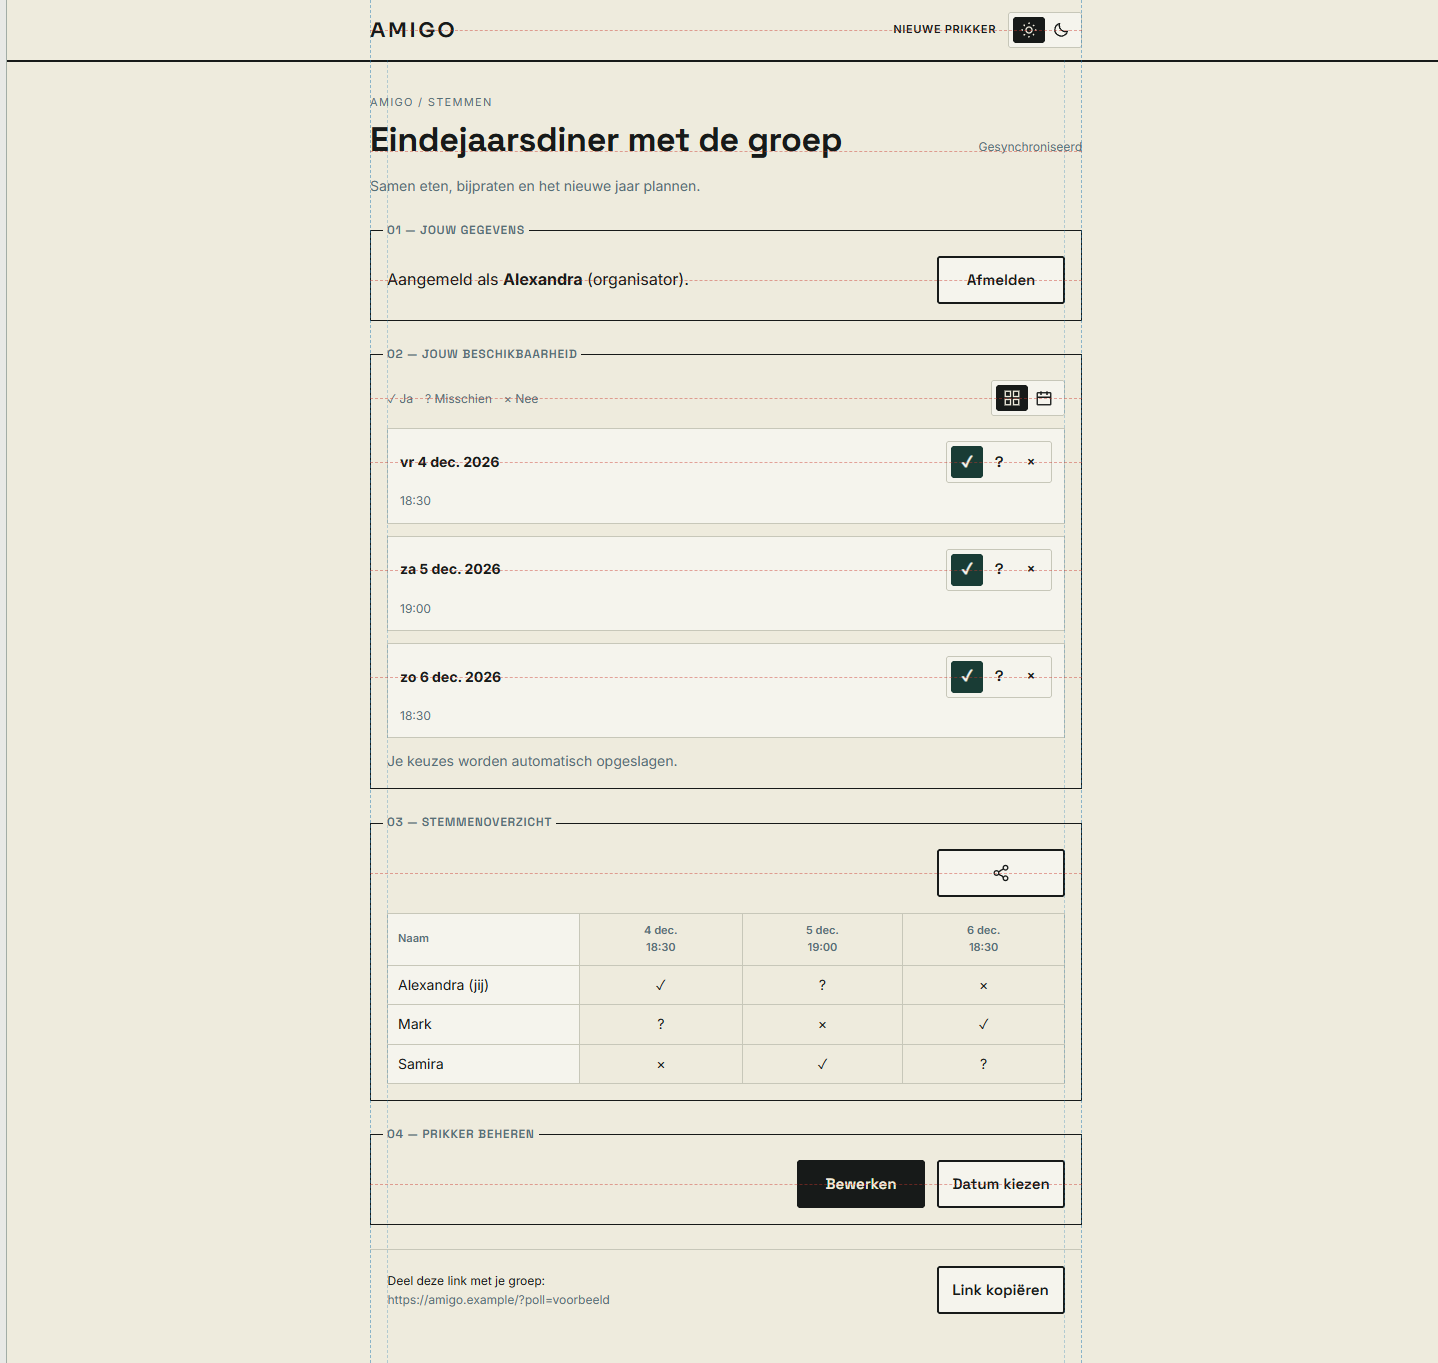
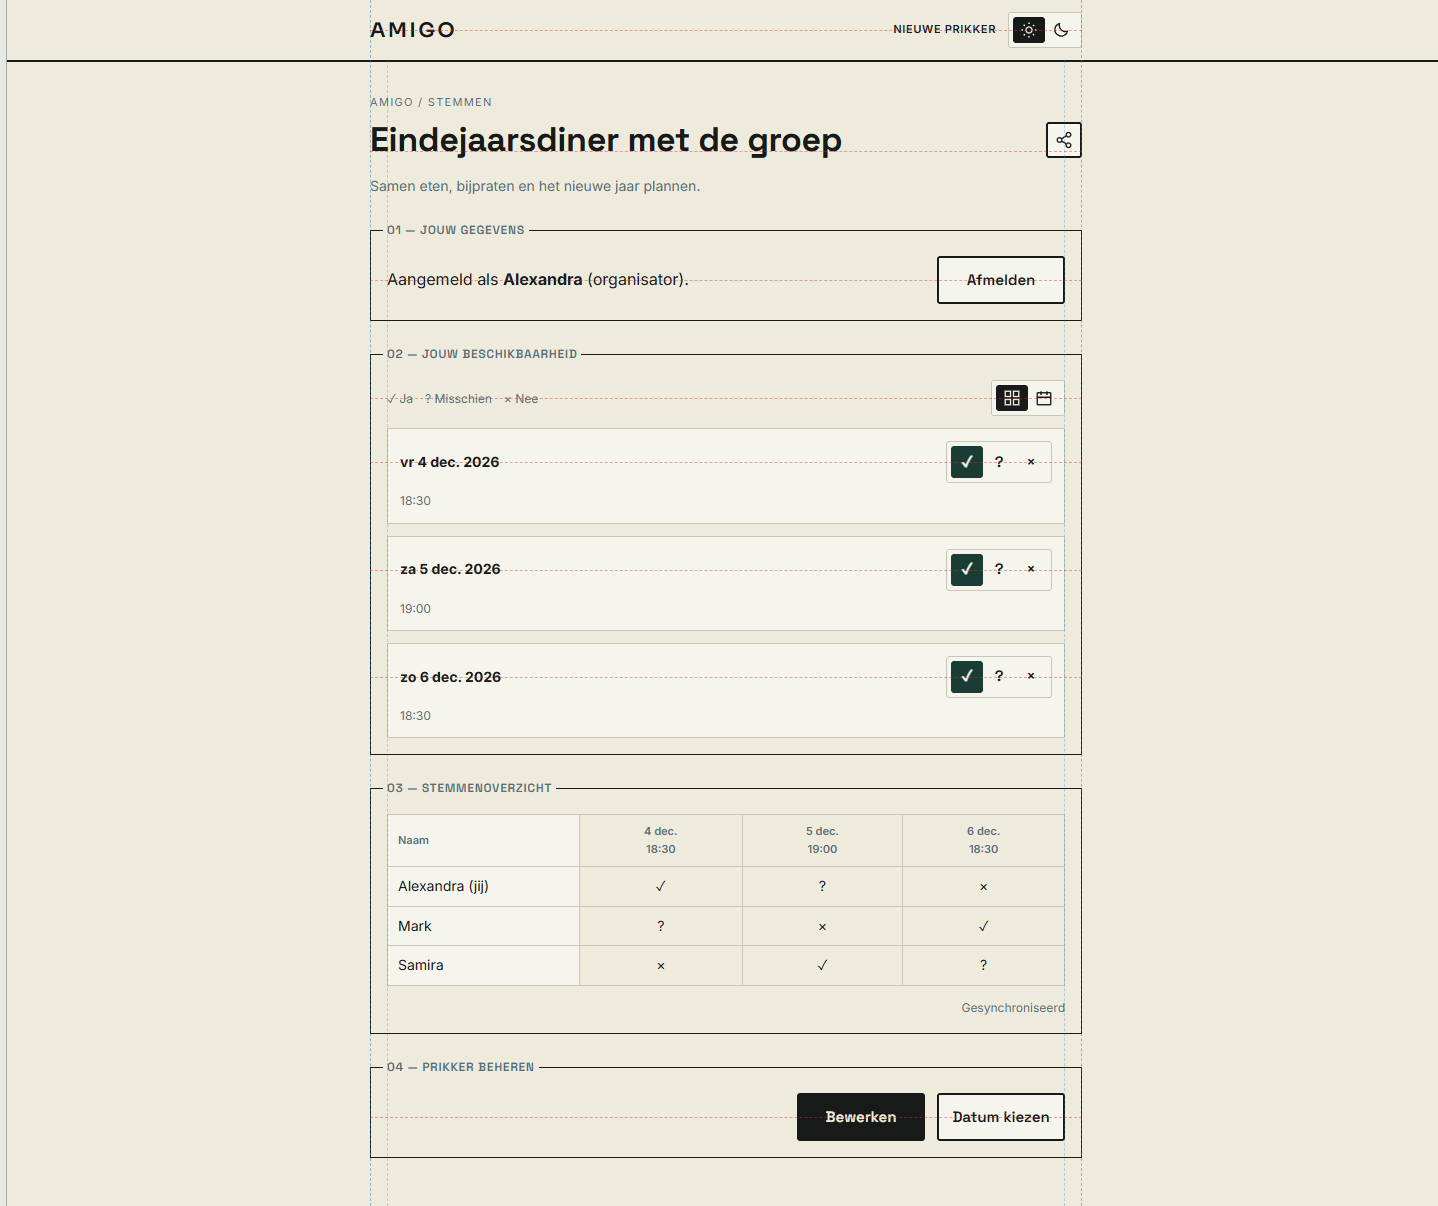
Layout changes

diff --git a/docs/planner-wireframe.html b/docs/planner-wireframe.html
@@ -343,7 +343,7 @@ OTHER DEALINGS IN THE FONT SOFTWARE.
     <div class="stage"><iframe id="preview" title="Wireframe van de datumprikker"></iframe></div>
     <div class="notes">
       <section class="note"><h2>A · Buitenlijn</h2><p>Logo, titel en segmentkaders beginnen op dezelfde lijn. Header en pagina delen een breedte van maximaal 760 px.</p></section>
-      <section class="note"><h2>B · Horizontale lijnen</h2><p>Segmenttitels volgen de linkerrand van de inhoud. Op brede schermen staan naam, wachtwoord en aanmelden op één rij. Op mobiel staan de velden onder elkaar over de volle breedte, met de knop eronder rechts. Titel en status delen hun eerste tekstbasislijn.</p></section>
+      <section class="note"><h2>B · Horizontale lijnen</h2><p>Segmenttitels volgen de linkerrand van de inhoud. Op brede schermen staan naam, wachtwoord en aanmelden op één rij. Op mobiel staan de velden onder elkaar over de volle breedte, met de knop eronder rechts. De deelknop staat rechts naast de polltitel; de synchronisatiestatus staat onder de stemtabel.</p></section>
       <section class="note"><h2>Ritme</h2><p>24 px tussen segmenten, 16 px tussen velden, 8 px tussen label en veld en 12 px tussen kaarten en knoppen. De pagina groeit mee; alleen de tabel scrolt horizontaal.</p></section>
     </div>
   </main>
@@ -408,12 +408,11 @@ OTHER DEALINGS IN THE FONT SOFTWARE.
     }
     function table() {
       const names = [person() + ' (jij)', state.stress ? 'Jean-Christophe De Smet-Van den Broeck' : 'Mark', 'Samira'];
-      return actionRow(shareButton()) + `<div class="table-scroll" role="region" aria-label="Stemmenoverzicht" tabindex="0"><table>
+      return `<div class="table-scroll" role="region" aria-label="Stemmenoverzicht" tabindex="0"><table>
         <thead><tr><th scope="col">Naam</th>${dates().map(date => `<th scope="col" ${state.scenario === 'closed' && date.day === 6 ? 'class="chosen"' : ''}>${date.day} dec.<br>${date.time}${state.scenario === 'closed' && date.day === 6 ? '<br>Einddatum' : ''}</th>`).join('')}</tr></thead>
         <tbody>${names.map((name, index) => `<tr><th scope="row">${escape(name)}</th>${dates().map((date, i) => `<td ${state.scenario === 'closed' && date.day === 6 ? 'class="chosen"' : ''}>${['✓', '?', '×'][(i + index) % 3]}</td>`).join('')}</tr>`).join('')}</tbody>
-      </table></div>`;
+      </table></div><p class="status" role="status">Gesynchroniseerd</p>`;
     }
-    const shareFooter = () => `<div class="share-footer"><p>Deel deze link met je groep:<br><span class="link-text">https://amigo.example/?poll=voorbeeld</span></p>${button('Link kopiëren', 'copy', true)}</div>`;
     function create() {
       return `<div class="eyebrow">AMIGO / planner</div><h1>Nieuwe datumprikker</h1><form class="segments" data-form="create">
         ${segment('01 — Prikker instellen', `<div class="fields">${label('Titel', title())}${description()}</div>`)}
@@ -450,15 +449,15 @@ OTHER DEALINGS IN THE FONT SOFTWARE.
     function poll() {
       const authorized = ['organizer', 'closed'].includes(state.scenario);
       const editing = ['edit', 'final'].includes(state.screen);
-      return `<div class="eyebrow">AMIGO / stemmen</div><div class="poll-heading"><h1>${title()}</h1><p class="status">Gesynchroniseerd</p></div>
+      return `<div class="eyebrow">AMIGO / stemmen</div><div class="poll-heading"><h1>${title()}</h1>${shareButton()}</div>
         <p class="description">Samen eten, bijpraten en het nieuwe jaar plannen.</p>
         ${state.scenario === 'closed' ? '<div class="final-date-block"><p class="final-date">Gekozen datum: zo 6 dec. 2026, 18:30</p></div>' : ''}
         <div class="segments">
           ${segment('01 — Jouw gegevens', credentials())}
-          ${segment('02 — Jouw beschikbaarheid', `${choices()}<p class="description hint">Je keuzes worden automatisch opgeslagen.</p>`, !editing && state.scenario !== 'guest' && state.scenario !== 'closed')}
+          ${segment('02 — Jouw beschikbaarheid', choices(), !editing && state.scenario !== 'guest' && state.scenario !== 'closed')}
           ${segment('03 — Stemmenoverzicht', table())}
           ${segment('04 — Prikker beheren', management(), authorized)}
-        </div>${shareFooter()}`;
+        </div>`;
     }
     const styles = `
       :root { --bg:#eeebdd; --surface:#f5f4ed; --ink:#171a19; --border:#c7c7b9; --muted:#576f77; --gutter:24px; --inset:16px; }
@@ -477,8 +476,8 @@ OTHER DEALINGS IN THE FONT SOFTWARE.
       h1 { font:700 34px/1.15 'Space Grotesk',sans-serif; letter-spacing:-.01em; overflow-wrap:anywhere; margin:8px 0 16px; }
       h2 { font:600 14px/1.4 'Space Grotesk',sans-serif; text-transform:uppercase; letter-spacing:.06em; margin:0 0 16px; padding-bottom:8px; border-bottom:1px solid var(--border); }
       p { margin:0; } .description,.status { color:var(--muted); font-size:14px; } .description { margin-bottom:16px; }
-      .poll-heading { display:grid; grid-template-columns:minmax(0,1fr) fit-content(45%); align-items:baseline; gap:16px; margin:8px 0 16px; }
-      .poll-heading h1 { margin:0; } .status { text-align:right; font-size:12px; }
+      .poll-heading { display:grid; grid-template-columns:minmax(0,1fr) auto; align-items:start; gap:16px; margin:8px 0 16px; }
+      .poll-heading h1 { margin:0; } .poll-heading>.icon-button { margin-top:2px; } .status { text-align:right; font-size:12px; margin-top:12px; }
       .segments { display:grid; gap:24px; margin-top:24px; } .segment { min-width:0; margin:0; padding:0; border:1.5px solid var(--ink); }
       .segment>legend { margin-inline-start:calc(var(--inset) - 4px); padding:0 4px; font:600 12px/1.6 'Space Grotesk',sans-serif; letter-spacing:.06em; text-transform:uppercase; color:var(--muted); }
       .segment-content { padding:var(--inset); min-width:0; } .closed { border-inline-color:transparent; border-bottom-color:transparent; }
@@ -496,8 +495,8 @@ OTHER DEALINGS IN THE FONT SOFTWARE.
       .access-row--login input { height:48px; margin:0; }
       .access-row--login>.actions { align-self:end; margin:0; padding:0; }
       .access-row p { overflow-wrap:anywhere; } .actions { display:flex; flex-wrap:wrap; align-items:center; justify-content:flex-end; gap:12px; }
-      .actions>button,.reopen>button,.share-footer>button,.final-card>button { width:128px; min-width:128px; max-width:128px; height:48px; min-height:48px; flex:0 0 128px; padding:4px 8px; line-height:1.2; }
-      .page-actions,.share-footer { padding-inline:calc(var(--inset) + 1.5px); }
+      .actions>button,.reopen>button,.final-card>button { width:128px; min-width:128px; max-width:128px; height:48px; min-height:48px; flex:0 0 128px; padding:4px 8px; line-height:1.2; }
+      .page-actions { padding-inline:calc(var(--inset) + 1.5px); }
       .hint { margin:12px 0 0; } .choices { min-width:0; }
       .toolbar { display:flex; flex-wrap:wrap; justify-content:space-between; align-items:center; gap:12px; margin-bottom:12px; }
       .toolbar .toggle { margin-left:auto; } .legend { display:flex; flex-wrap:wrap; gap:12px; font-size:12px; color:var(--muted); }
@@ -521,12 +520,12 @@ OTHER DEALINGS IN THE FONT SOFTWARE.
       .calendar-day small { font-size:10px; line-height:1; } .calendar>.legend { margin-block:12px; }
       .selected-dates { margin-top:16px; } .selected-dates>p { margin-bottom:12px; color:var(--muted); font-size:12px; }
       .date-row { display:grid; grid-template-columns:minmax(0,1fr) 8rem 40px; align-items:center; gap:12px; margin-top:12px; font-size:14px; }
-      .date-row input { padding-inline:8px; } .table-scroll { max-width:100%; overflow-x:auto; margin-top:16px; }
+      .date-row input { padding-inline:8px; } .table-scroll { max-width:100%; overflow-x:auto; }
       table { border-collapse:collapse; width:100%; font-size:14px; } th,td { border:1px solid var(--border); padding:8px 10px; text-align:center; }
       thead th { color:var(--muted); font-weight:600; font-size:11px; white-space:nowrap; } th:first-child { position:sticky; left:0; z-index:1; min-width:12rem; width:12rem; max-width:12rem; white-space:normal; overflow-wrap:anywhere; text-align:left; background:var(--surface); }
       tbody th { font-weight:400; } .chosen { background:color-mix(in srgb,#d21f26 12%,var(--surface)); }
-      .icon-button { width:36px; min-height:36px; padding:6px; } .reopen,.share-footer { display:flex; flex-wrap:wrap; align-items:center; justify-content:flex-end; gap:12px 16px; margin-top:24px; }
-      .reopen p,.share-footer p { flex:1 1 240px; margin:0; } .share-footer { border-top:1px solid var(--border); padding-top:16px; font-size:12px; } .link-text { overflow-wrap:anywhere; color:var(--muted); }
+      .icon-button { width:36px; min-height:36px; padding:6px; } .reopen { display:flex; flex-wrap:wrap; align-items:center; justify-content:flex-end; gap:12px 16px; margin-top:24px; }
+      .reopen p { flex:1 1 240px; margin:0; }
       .final-date-block { display:flex; justify-content:center; margin-block:24px; text-align:center; } .final-date { padding:12px 16px; background:#a83232; color:#f5f4ed; border-radius:3px; font-weight:600; font-size:14px; }
       .guides { position:absolute; top:0; bottom:0; left:50%; transform:translateX(-50%); width:calc(min(760px,100%) - var(--gutter)*2); border-inline:1px dashed #247db580; pointer-events:none; z-index:4; }
       .guides:before,.guides:after { content:''; position:absolute; top:60px; bottom:0; border-left:1px dashed #247db54d; } .guides:before { left:var(--inset); } .guides:after { right:var(--inset); }

diff --git a/src/styles/planner-layout.css b/src/styles/planner-layout.css
@@ -28,13 +28,14 @@
 
 .planner-page .poll-heading {
   display: grid;
-  grid-template-columns: minmax(0, 1fr) fit-content(45%);
-  align-items: baseline;
+  grid-template-columns: minmax(0, 1fr) auto;
+  align-items: start;
   gap: 16px;
   margin-block: 8px 16px;
 }
 .planner-page .poll-heading > h1 { margin: 0; }
-.planner-page .poll-heading__status { max-width: none; margin: 0; font-size: 12px; overflow-wrap: anywhere; }
+.planner-page .poll-heading > .copy-button--icon { margin-top: 2px; }
+.planner-page .poll-results__status { margin: 12px 0 0; font-size: 12px; text-align: right; overflow-wrap: anywhere; }
 
 .planner-page > .form { gap: var(--planner-section-gap); margin-top: var(--planner-section-gap); }
 .planner-page .form fieldset { margin-inline: 0; padding: var(--planner-inset); }
@@ -63,7 +64,7 @@
 .planner-page .access-fields label { max-width: none; }
 .planner-page .access-fields p { overflow-wrap: anywhere; }
 .planner-page .edit-actions { align-items: center; gap: var(--planner-control-gap); }
-.planner-page :is(.edit-actions, .organizer-reopen, .share-hint, .date-jump-actions) > :is(button, .btn),
+.planner-page :is(.edit-actions, .organizer-reopen, .date-jump-actions) > :is(button, .btn),
 .planner-page .date-cards > li > button {
   width: var(--planner-action-width);
   min-width: var(--planner-action-width);
@@ -75,8 +76,7 @@
   font-size: 15px;
   line-height: 1.2;
 }
-.planner-page .planner-page-actions,
-.planner-page .share-hint { padding-inline: calc(var(--planner-inset) + 1.5px); }
+.planner-page .planner-page-actions { padding-inline: calc(var(--planner-inset) + 1.5px); }
 .planner-page button[type]:not(:where(.calendar button, .date-row button, .vote-grid button, .segmented-control__option, .copy-button--icon)) { font-size: 15px; }
 .planner-page .organizer-actions { flex-wrap: wrap; }
 .planner-page .organizer-reopen { margin-top: 24px; gap: 12px 16px; }
@@ -109,12 +109,9 @@
 .planner-page .date-cards > li > strong { grid-column: 1; grid-row: 1; min-width: 0; }
 .planner-page .date-cards > li > :is(button, .segmented-control) { grid-column: 2; grid-row: 1; margin: 0; }
 .planner-page .date-card-meta { grid-column: 1 / -1; grid-row: 2; display: flex; flex-wrap: wrap; gap: 8px 12px; color: var(--muted); font-size: 12px; }
-.planner-page .poll-results .vote-grid-scroll { margin-top: 16px; }
+.planner-page .poll-results .vote-grid-scroll { margin-top: 0; }
 .planner-page .final-date-block { margin-block: 24px; }
 .planner-page .final-date { margin: 0; }
-.planner-page .share-hint { margin-top: 24px; padding-top: 16px; gap: 12px 16px; }
-.planner-page .share-hint > p { flex: 1 1 240px; min-width: 0; margin: 0; }
-.planner-page .share-hint code { min-width: 0; overflow-wrap: anywhere; }
 
 /* Cell geometry is driven by the seven equal columns, never by text height. */
 .planner-page .calendar { margin-top: 0; }

diff --git a/src/components/PollPage.jsx b/src/components/PollPage.jsx
@@ -195,12 +195,7 @@ export default function PollPage({ pollId, share }) {
       <div className="lab eyebrow">{t('poll.eyebrow')}</div>
       <div className="poll-heading">
         <h1>{poll.title}</h1>
-        <p role="status" className="description poll-heading__status">
-          {row.queue.some(item => ['create', 'createPoll'].includes(item.kind))
-            ? t('sync.createPending')
-            : row.queue.length ? t('sync.changesPending') : ''}
-          {' '}{row.queue.length && status?.key === 'sync.synced' ? '' : translateMessage(status)}
-        </p>
+        <SharePollButton poll={poll} dates={dates} votes={votes} />
       </div>
       {storageError && <p role="alert" className="error">{translateMessage(storageError)}</p>}
       {notices.map((notice, index) => <p className="error" key={index}>{t('poll.rejected', { detail: translateMessage(notice) })}</p>)}
@@ -220,9 +215,6 @@ export default function PollPage({ pollId, share }) {
 
       <div className="form poll-results">
         <CollapsibleSegment title={t('results.section')} open={hasDates && hasVoters}>
-          <div className="poll-results-actions">
-            <SharePollButton poll={poll} dates={dates} votes={votes} />
-          </div>
           <div className="vote-grid-scroll" role="region" aria-label={t('results.heading')} tabIndex={0}>
             <VoteGrid
               dates={dates}
@@ -233,6 +225,12 @@ export default function PollPage({ pollId, share }) {
               onRemoveVoter={voter => { if (mode === 'edit' && organizerAuthorized) save('removeVoter', { voter }); }}
             />
           </div>
+          <p role="status" className="description poll-results__status">
+            {row.queue.some(item => ['create', 'createPoll'].includes(item.kind))
+              ? t('sync.createPending')
+              : row.queue.length ? t('sync.changesPending') : ''}
+            {' '}{row.queue.length && status?.key === 'sync.synced' ? '' : translateMessage(status)}
+          </p>
         </CollapsibleSegment>
       </div>
 
@@ -250,10 +248,6 @@ export default function PollPage({ pollId, share }) {
         )}
       </OrganizerUnlock>
 
-      <div className="share-hint">
-        <p><code>{window.location.href}</code></p>
-        <CopyButton text={window.location.href} label={t('common.copyLink')} secondary />
-      </div>
     </div>
   );
 }

diff --git a/src/styles/planner.css b/src/styles/planner.css
@@ -517,18 +517,6 @@ button.btn-secondary:focus-visible {
   overflow-wrap: anywhere;
 }
 
-.poll-heading > .poll-heading__status {
-  flex: 0 1 auto;
-  max-width: 45%;
-  margin: 0;
-  text-align: right;
-  overflow-wrap: anywhere;
-}
-
-.poll-heading__status:empty {
-  display: none;
-}
-
 .final-date {
   background: var(--amigo-red);
   color: var(--amigo-paper);
@@ -567,11 +555,6 @@ button.btn-secondary:focus-visible {
   height: 100%;
   pointer-events: none;
   z-index: 100;
-}
-
-.poll-results-actions {
-  display: flex;
-  justify-content: flex-end;
 }
 
 .copy-button.copy-button--icon {
@@ -764,25 +747,9 @@ button.btn-secondary:focus-visible {
   gap: 0.6rem;
 }
 
-.form > button, .share-hint .copy-button {
+.form > button {
   align-self: flex-end;
   margin-inline-start: auto;
-}
-
-.share-hint {
-  margin-top: 2.5rem;
-  padding-top: 1rem;
-  border-top: 1px solid var(--border);
-  color: var(--muted);
-  font-size: 0.85rem;
-  display: flex;
-  align-items: center;
-  gap: 0.6rem;
-  flex-wrap: wrap;
-}
-
-.share-hint code {
-  word-break: break-all;
 }
 
 .organizer-panel > button {

diff --git a/src/components/VoterForm.jsx b/src/components/VoterForm.jsx
@@ -143,7 +143,6 @@ export default function VoterForm({ pollId, dates, participants, loginResults, s
         <CollapsibleSegment title={t('vote.section')} open={availabilityOpen}>
           <div className="voter-ballot" role="region" aria-label={t('vote.availability')} tabIndex={availabilityOpen ? 0 : undefined}>
             <VoteCalendar key={session?.voter || 'guest'} dates={dates} myVotes={parseVotes(activePerson?.votesJson)} onVote={castVote} disabled={readOnly} />
-            <p className="description" role="status">{saving > 0 ? t('vote.saving') : t('vote.autoSave')}</p>
           </div>
           {signedIn && error && <p role="alert" className="error">{translateMessage(error)}</p>}
         </CollapsibleSegment>

diff --git a/src/i18n/nl-BE.js b/src/i18n/nl-BE.js
@@ -67,8 +67,6 @@ export default {
   'vote.maybe': '? Misschien',
   'vote.no': '✗ Nee',
   'vote.forDate': 'Beschikbaarheid op {date}',
-  'vote.saving': 'Stem bewaren…',
-  'vote.autoSave': 'Je keuzes worden automatisch opgeslagen.',
   'view.label': 'Weergave',
   'view.cards': 'Kaarten',
   'view.calendar': 'Kalender',

diff --git a/README.md b/README.md
@@ -60,11 +60,11 @@ Gebruik de gedeelde datumfuncties en `formatNumber`, `formatCurrency` en `parseN
 
 ### Wireframe en toegepaste layout
 
-Open [het losse wireframe](docs/planner-wireframe.html) rechtstreeks in de browser. Het bevat aanmaken, delen, stemmen, bewerken en einddatum kiezen, met instelbare breedte, licht/donker thema, gebruikerssituatie, kaarten/kalender en lange voorbeeldinhoud. Blauwe verticale hulplijnen tonen de randen; afzonderlijk schakelbare oranje horizontale lijnen tonen de rijmiddens en de basislijn van titel/status. Naam en afmeldknop staan gecentreerd naast elkaar, de aanmeldknop sluit aan op het wachtwoordveld en datum en bediening delen een rij. De lettertypen zijn ingesloten; een server of Supabase-verbinding is niet nodig. De bediening gebruikt fictieve gegevens.
+Open [het losse wireframe](docs/planner-wireframe.html) rechtstreeks in de browser. Het bevat aanmaken, delen, stemmen, bewerken en einddatum kiezen, met instelbare breedte, licht/donker thema, gebruikerssituatie, kaarten/kalender en lange voorbeeldinhoud. Blauwe verticale hulplijnen tonen de randen; afzonderlijk schakelbare oranje horizontale lijnen tonen de rijmiddens en de basislijn van de titel. Naam en afmeldknop staan gecentreerd naast elkaar, de aanmeldknop sluit aan op het wachtwoordveld en datum en bediening delen een rij. De lettertypen zijn ingesloten; een server of Supabase-verbinding is niet nodig. De bediening gebruikt fictieve gegevens.
 
 De [desktopafbeelding](docs/planner-wireframe-desktop.png) en [mobiele afbeelding](docs/planner-wireframe-mobile.png) geven een eerste overzicht. Het goedgekeurde raster is toegepast op aanmaken, delen, stemmen en organisatorbeheer: één breedte van 760 px, gedeelde uitlijningslijnen en een vast ritme van afstanden. De gedeelde maten staan in `src/styles/planner-layout.css` en zijn begrensd tot de datumprikker. Kalenderdagen blijven vierkant, ook op smalle schermen en met tijdstip en stemmarkering.
 
-`node tests/wireframe-browser.mjs` controleert verticale randen, horizontale rijmiddens en de tekstbasislijn van titel/status op 320, 390, 768 en 1440 px, in beide thema's en met verschillende rollen, beide datumweergaven en lange inhoud. Voeg `--screenshots` toe om de twee voorbeeldafbeeldingen opnieuw te maken. Chrome en de gebruikelijke `CHROME_PATH`-instelling werken zoals bij de andere browsertests.
+`node tests/wireframe-browser.mjs` controleert verticale randen, horizontale rijmiddens en de plaatsing van de deelknop en de status onder de tabel op 320, 390, 768 en 1440 px, in beide thema's en met verschillende rollen, beide datumweergaven en lange inhoud. Voeg `--screenshots` toe om de twee voorbeeldafbeeldingen opnieuw te maken. Chrome en de gebruikelijke `CHROME_PATH`-instelling werken zoals bij de andere browsertests.
 
 `node tests/planner-layout-browser.mjs` controleert dezelfde breedtes plus 720 px en beide thema's op de werkende React-schermen, met lange namen en tien datums. De controle meet onder meer vierkante kalendercellen en knoppen, volledige tijd-/steminhoud, uitlijning, overlap en de vaste naamkolom.
 
